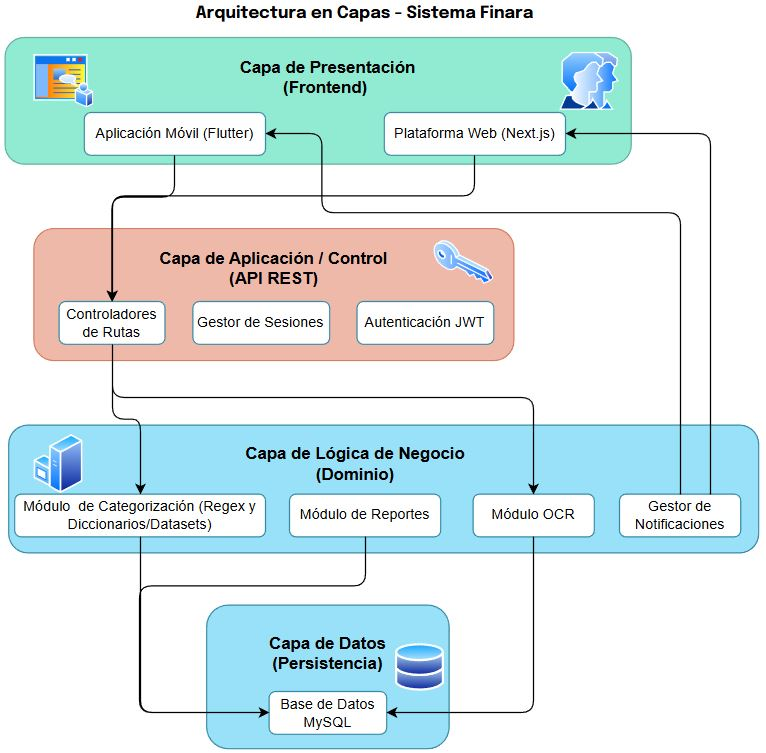
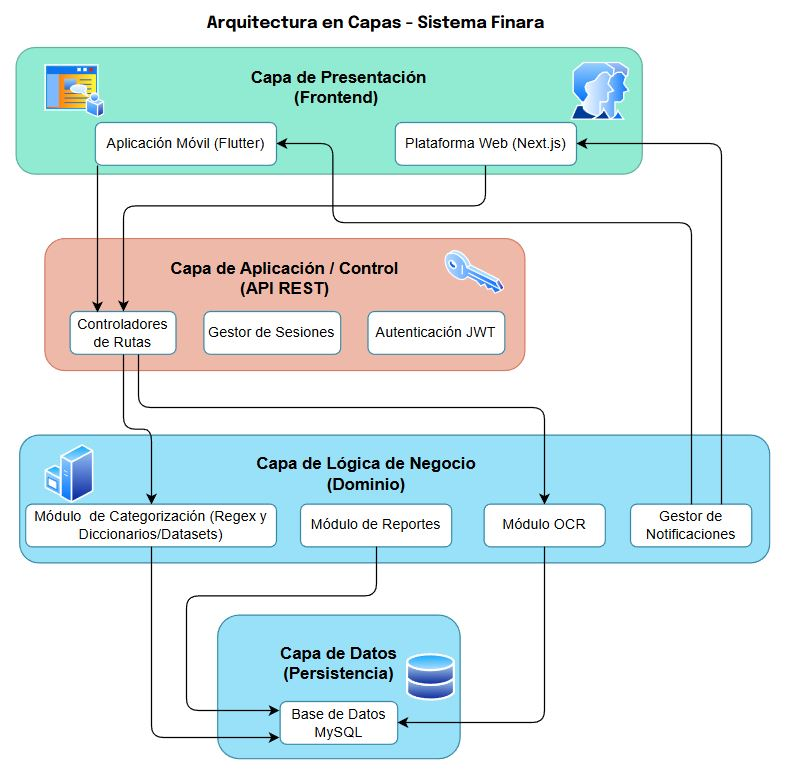
Se agregaron los nuevos Wireframes y los diagramas corregidos

Changed region(s): [[0.0, 0.0, 1.0, 1.0]]

diff --git a/ReporteTecnico/desarrollo/diseno/diseno.tex b/ReporteTecnico/desarrollo/diseno/diseno.tex
@@ -92,17 +92,17 @@ Cada tabla posee una clave primaria que garantiza la unicidad de los registros y
 
 Las relaciones más relevantes son:
 
-Usuarios-Tickets: relación 1:N, donde un usuario puede registrar varios tickets.
+Usuarios-Tickets: relación 1:0..N, donde un usuario puede registrar varios tickets.
 
-Tickets-ProductosTickets: relación 1:N, cada ticket puede contener múltiples productos asociados.
+Tickets-ProductosTickets: relación 1:0..N, cada ticket puede contener múltiples productos asociados.
 
-Usuarios-Movimientos: relación 1:N, un usuario genera múltiples registros financieros.
+Usuarios-Movimientos: relación 1:0..N, un usuario genera múltiples registros financieros.
 
 Categorías-Movimientos: relación 1:N, cada movimiento pertenece a una categoría definida por el usuario.
 
-Usuarios-Deudas-Usuarios: relación 1:N, que permite asignar deudas a usuarios específicos.
+Usuarios-Deudas-Usuarios: relación 1:0..N, que permite asignar deudas a usuarios específicos.
 
-Movimientos-Predicciones: relación 1:N, cada movimiento puede tener una predicción asociada.
+Categorías-Presupuestos: relación 1:1, cada categoria puede tener un presupuesto.
 
 Según Elmasri y Navathe \cite{TablasYRelaciones}, un buen diseño relacional debe “mantener una estructura normalizada, clara y eficiente, minimizando redundancias y asegurando la 
 integridad de los datos”.
@@ -173,14 +173,6 @@ Este proceso asegura una estructura coherente, favorece la integridad referencia
     \caption{Diagrama UML de Secuencia - Generación de Reportes}
     \end{figure}
 
-    \item \textbf{Diagrama de Base de Datos}
-    
-    
-    \begin{figure}[H]
-    \centering
-    \includegraphics[width=1\linewidth]{./images/E-R BD.png}
-    \caption{Diagrama Entidad-Relación UML del sistema propuesto}
-    \end{figure}
     \item \textbf{Análisis del flujo del Sistema}
 
     En esta sección, se presenta un análisis detallado del flujo del sistema, identificando los diferentes procesos y cómo interactúan entre sí. 
@@ -188,7 +180,7 @@ Este proceso asegura una estructura coherente, favorece la integridad referencia
 
     \begin{figure}[H]
     \centering
-    \includegraphics[width=1\linewidth]{./images/Flujo del Sistema.png}
+    \includegraphics[width=1\linewidth, height=0.3\textheight]{./images/Flujo del Sistema.jpg}
     \caption{Diagrama del sistema propuesto}
     \end{figure}
 
@@ -196,11 +188,13 @@ Este proceso asegura una estructura coherente, favorece la integridad referencia
     
     El siguiente diagrama ilustra un prototipo del flujo del proceso de Reconocimiento Óptico de Caracteres (OCR) dentro del sistema.
     
+    \begin{landscape}
     \begin{figure}[H]
     \centering
-    \includegraphics[width=1\linewidth]{./images/FlujoOCR.png}
+    \includegraphics[width=\linewidth, height=\textheight, keepaspectratio]{./images/FlujoOCR.png}
     \caption{Diagrama del flujo del OCR}
     \end{figure}
+    \end{landscape}
 
 \end{itemize}
 
@@ -213,32 +207,50 @@ Estos wireframes sirven como guía visual para el desarrollo de la interfaz, ase
 
 \begin{figure}[H]
     \centering
-    \includegraphics[width=0.6\linewidth]{./images/wireframesApp/LogIn.JPG}
+    \includegraphics[width=0.5\linewidth]{./images/wireframesApp/LogIn.png}
     \caption{Wireframe de la pantalla de inicio de sesión - App Móvil}
 \end{figure}
 
 \begin{figure}[H]
     \centering
-    \includegraphics[width=0.2\linewidth]{./images/wireframesApp/Carrusel.JPG}
+    \includegraphics[width=0.6\linewidth]{./images/wireframesApp/Carrusel.png}
     \caption{Wireframe de la pantalla de carrusel - App Móvil}
 \end{figure}
 
 \begin{figure}[H]
     \centering
-    \includegraphics[width=1\linewidth]{./images/wireframesApp/Principal y Transacciones.JPG}
-    \caption{Wireframe de la pantalla de principal y transacciones - App Móvil}
+    \includegraphics[width=1\linewidth]{./images/wireframesApp/Principal.png}
+    \caption{Wireframe de la pantalla de principal - App Móvil}
 \end{figure}
 
 \begin{figure}[H]
     \centering
-    \includegraphics[width=1\linewidth]{./images/wireframesApp/Presupuestos-Deudas-Notificaciones.JPG}
-    \caption{Wireframe de la pantalla de presupuestos, deudas y notificaciones - App Móvil}
+    \includegraphics[width=1\linewidth]{./images/wireframesApp/Transacciones.png}
+    \caption{Wireframe de la pantalla de transacciones - App Móvil}
 \end{figure}
 
 \begin{figure}[H]
     \centering
-    \includegraphics[width=1\linewidth]{./images/wireframesApp/Escaneo-Verificacion-Tickets.JPG}
-    \caption{Wireframe de la pantalla de escaneo y verificación de tickets - App Móvil}
+    \includegraphics[width=1\linewidth]{./images/wireframesApp/Presupuestos.png}
+    \caption{Wireframe de la pantalla de presupuestos - App Móvil}
+\end{figure}
+
+\begin{figure}[H]
+    \centering
+    \includegraphics[width=1\linewidth]{./images/wireframesApp/Deudas.png}
+    \caption{Wireframe de la pantalla de deudas - App Móvil}
+\end{figure}
+
+\begin{figure}[H]
+    \centering
+    \includegraphics[width=1\linewidth]{./images/wireframesApp/Notificaciones.png}
+    \caption{Wireframe de la pantalla de Notificaciones - App Móvil}
+\end{figure}
+
+\begin{figure}[H]
+    \centering
+    \includegraphics[width=0.6\linewidth]{./images/wireframesApp/Escanear Tickets.png}
+    \caption{Wireframe de la pantalla de Escaneo de Tickets - App Móvil}
 \end{figure}
 
     \item \textbf{Wireframes Panel Web}
@@ -247,38 +259,44 @@ Estos wireframes sirven como guía visual para el desarrollo de la interfaz, ase
 
 \begin{figure}[H]
     \centering
-    \includegraphics[width=1\linewidth]{./images/wireframesWeb/Dashboard_web.png}
-    \caption{Wireframe del Dashboard Principal - Panel Web}
+    \includegraphics[width=1\linewidth]{./images/wireframesWeb/LandingPage.png}
+    \caption{Wireframe de la Landing Page - Panel Web}
 \end{figure}
 
 \begin{figure}[H]
     \centering
-    \includegraphics[width=1\linewidth]{./images/wireframesWeb/Presupuestos_web.png}
+    \includegraphics[width=1\linewidth]{./images/wireframesWeb/IniciarSesion.png}
+    \caption{Wireframe de la pantalla de Iniciar Sesión - Panel Web}
+\end{figure}
+
+\begin{figure}[H]
+    \centering
+    \includegraphics[width=1\linewidth]{./images/wireframesWeb/DashInicio.png}
+    \caption{Wireframe de la pantalla de Dashboard Inicial - Panel Web}
+\end{figure}
+
+\begin{figure}[H]
+    \centering
+    \includegraphics[width=1\linewidth]{./images/wireframesWeb/DashTransacciones.png}
+    \caption{Wireframe de la pantalla de Transacciones - Panel Web}
+\end{figure}
+
+\begin{figure}[H]
+    \centering
+    \includegraphics[width=1\linewidth]{./images/wireframesWeb/DashPresupuestos.png}
     \caption{Wireframe de la pantalla de Presupuestos - Panel Web}
 \end{figure}
 
 \begin{figure}[H]
     \centering
-    \includegraphics[width=1\linewidth]{./images/wireframesWeb/Analisis_web.png}
-    \caption{Wireframe de la pantalla de Análisis - Panel Web}
+    \includegraphics[width=1\linewidth]{./images/wireframesWeb/DashDeudas.png}
+    \caption{Wireframe de la pantalla de Deudas - Panel Web}
 \end{figure}
 
 \begin{figure}[H]
     \centering
-    \includegraphics[width=1\linewidth]{./images/wireframesWeb/Dudas_web.png}
-    \caption{Wireframe de la pantalla de Dudas - Panel Web}
-\end{figure}
-
-\begin{figure}[H]
-    \centering
-    \includegraphics[width=1\linewidth]{./images/wireframesWeb/Notificaciones_web.png}
-    \caption{Wireframe de la pantalla de Notificaciones - Panel Web}
-\end{figure}
-
-\begin{figure}[H]
-    \centering
-    \includegraphics[width=1\linewidth]{./images/wireframesWeb/Soluciones_web.png}
-    \caption{Wireframe de la pantalla de Soluciones - Panel Web}
+    \includegraphics[width=1\linewidth]{./images/wireframesWeb/DashRecomendaciones.png}
+    \caption{Wireframe de la pantalla de Recomendaciones por IA - Panel Web}
 \end{figure}
 
 \end{itemize}

diff --git a/ReporteTecnico/main.tex b/ReporteTecnico/main.tex
@@ -16,6 +16,7 @@
 \usepackage{hyperref}
 \usepackage{geometry}
 \usepackage{textcomp}
+\usepackage{lscape}
 
 % ======= FORMATOS =======
 \setlength{\parindent}{0pt}
